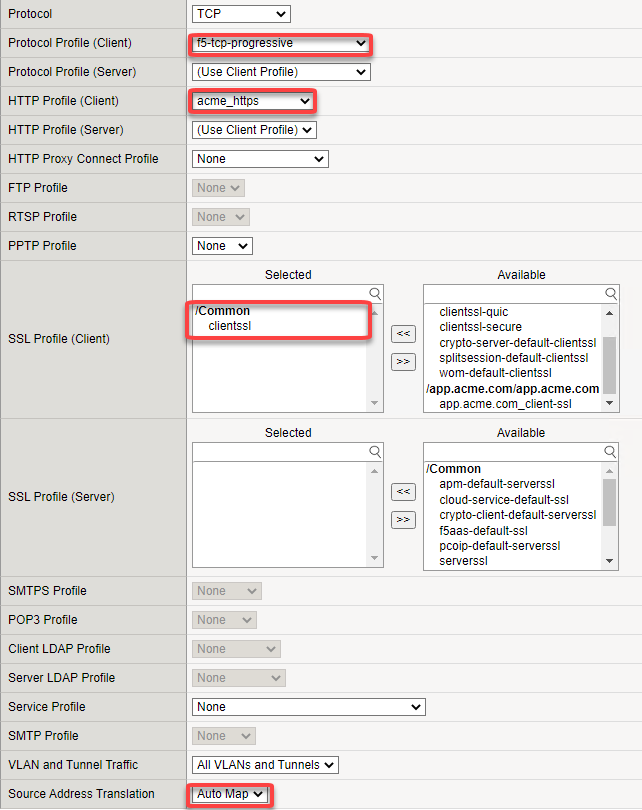
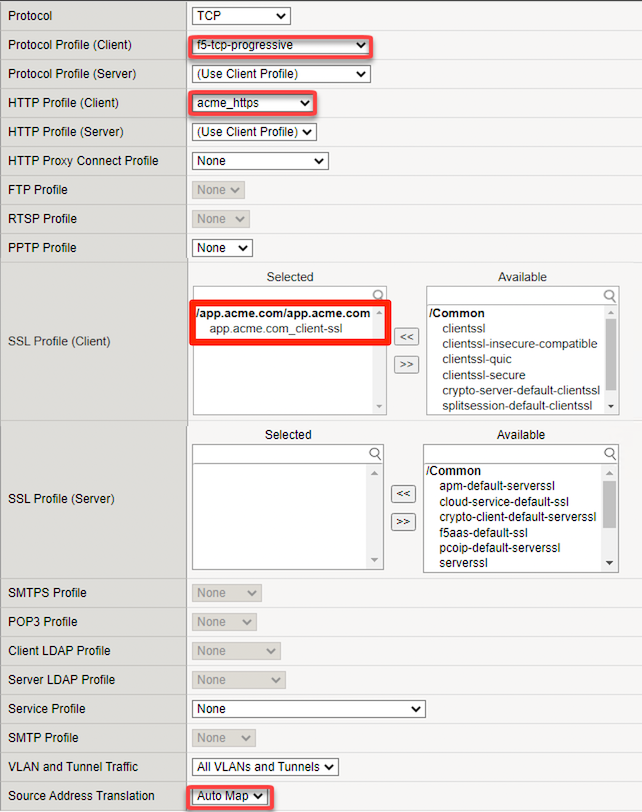
updates
minor updates to content and images for labs 1 and 2

diff --git a/docs/lab1/lab1.rst b/docs/lab1/lab1.rst
@@ -20,7 +20,7 @@ To access your dedicated student lab environment, you will need a web browser an
 
 #. Select your RDP resolution.
 
-#. The RDP client on your local host establishes a RDP connection to the Jump Host.
+#. The RDP client on your local host establishes an RDP connection to the Jump Host.
 
 #. Login with the following credentials:
 
@@ -43,7 +43,7 @@ To access your dedicated student lab environment, you will need a web browser an
     | Password:  | admin        |
     +------------+--------------+
 
-..Note::  You can take a look around at the BIG-IP.  At this time we do not have any application configuration.
+..Note::  You can take a look around at the BIG-IP.  At this time, we do not have any application configuration.
 
 Task 0: Postman
 ----------------------------
@@ -86,7 +86,7 @@ For this task we will run an API call to our BIG-IP, examine that the call was p
 
     |post|
 
-#. Now let's examine the JSON body where we plug in our configuration information for the collection we have identified. The body is in JSON format so we can identify the entity we want to configure.  In this case we have directed our call to **Node** and the two must have pieces of information to configure for a **Node** are the **name** and **dddress**.
+#. Now let's examine the JSON body where we plug in our configuration information for the collection we have identified. The body is in JSON format so we can identify the entity we want to configure.  In this case we have directed our call to **Node** and the two must have pieces of information to configure for a **Node** are the **name** and **address**.
 
     |json_node|
 
@@ -96,7 +96,7 @@ For this task we will run an API call to our BIG-IP, examine that the call was p
 
     |create_node|
 
-#. At the bottom of the Postman screen you will see the response from the BIG-IP.  We want to see a **200 OK** response to know that the BIG-IP accepted our call and processed our request.  Looking at the return boy we can see that our name and address were transmitted.
+#. At the bottom of the Postman screen, you will see the response from the BIG-IP.  We want to see a **200 OK** response to know that the BIG-IP accepted our call and processed our request.  Looking at the return boy we can see that our name and address were transmitted.
 
     |200_OK_node|
 
@@ -138,7 +138,7 @@ For this task we will run an API call to our BIG-IP, examine that the call was p
 
     |member|
 
-    .. Note:: Examine the order that we created the objects.  In imperative automation we have to know the exact order to create objects.  If we tried to create a pool but didn't have any pool members we would have an empty pool and have to **PATCH** the pool to add the a member.  If we tried to create a Virtual Server and attempted to attach a profile without creating the automation would fail.
+    .. Note:: Examine the order that we created the objects.  In imperative automation we have to know the exact order to create objects.  If we tried to create a pool but didn't have any pool members we would have an empty pool and have to **PATCH** the pool to add a member.  If we tried to create a Virtual Server and attempted to attach a profile without creating the automation would fail.
 
 #. Last step is to test that our Virtual Server works.  In Chrome you can go to https://app.acme.com or click on the **app.acme.com** bookmark.
 
@@ -152,7 +152,7 @@ In this section we are going to use the API to discover information about our co
 
     |1_2_read|
 
-#. You will notice that this is not a **POST** but a **GET**.  We are still talking tot he BIG-IP on the LTM module and requesting information on Virtual.  Click **Send**, verify the **200 OK** and then examine the body of the response.  We have gathered information on all the Virtual Servers installed on this BIG-IP.
+#. You will notice that this is not a **POST** but a **GET**.  We are still talking to the BIG-IP on the LTM module and requesting information on Virtual.  Click **Send**, verify the **200 OK** and then examine the body of the response.  We have gathered information on all the Virtual Servers installed on this BIG-IP.
 
     |list_vs|
 
@@ -168,35 +168,35 @@ In this section we are going to use the API to discover information about our co
 
 Task 1.3: Update
 -----------------------------
-So far we have learned how to **POST** configuration to our BIG-IP and how to **GET** information.  Sometimes you need to modify existing configuration.  Changing a TCP profile, modifying an SSL profile, adding nodes to pools or even changing the status of a pool member.
+So far we have learned how to **POST** configuration to our BIG-IP and how to **GET** information.  Sometimes you need to modify existing configuration; changing a TCP profile, modifying an SSL profile, adding nodes to pools or even changing the status of a pool member.
 
 #. From Postman expand on **1.3 - Update**.  Locate **1.3.1 - Patch** and expand that.  Click on **1.3.1.1 Update - LTM Virtual Server (443)** and let's examine the right pane.
 
     |1_3_update|
 
-#. We will be using the **PATCH** method to modify and/or change information on our target object.  In this case our target object is the **app.acme.com_vs_443** Virtual Server.  Click on **Body**.  We are looking for the name **app.acme.com_vs**.  We are looking in the profilesReference.  We want to keep **acme_https** so we list that profile, we are adding **f5-tcp-progressive** as a TCP profile and keeping the client ssl profile **app.acme.com_client-ssl**.  Click **Send**
+#. We will be using the **PATCH** method to modify and/or change information on our target object.  In this case our target object is the **app.acme.com_vs_443** Virtual Server.  Click on **Body**.  We are looking for the name **app.acme.com_vs**.  We are looking in the profilesReference.  We want to keep **acme_https** so we list that profile, we are adding **f5-tcp-progressive** as a TCP profile and keeping the client SSL profile **app.acme.com_client-ssl**.  Click **Send**
 
     |add_tcp|
 
 #. We receive a **200 OK**.
 
-#. Return to Chrome and our BIG-IP.  Navigate to **Local Traffic --> Virtual Server --> Virtual Server List** and locate **app.acme.com_vs_443** and click on it.  Scroll down and to see that **f5-tcp-progressive** is listed as the tcp profile.
+#. Return to Chrome and our BIG-IP.  Navigate to **Local Traffic --> Virtual Server --> Virtual Server List** and locate **app.acme.com_vs_443** and click on it.  Scroll down and to see that **f5-tcp-progressive** is listed as the TCP profile.
 
     |patch_tcp|
 
-    .. Note::  Bonus question - Instead of visiting the WebUI to discover information about the Virtual Server could we have used automation?  How?
+    .. Note::  Bonus question - Instead of visiting the WebUI to discover information about the Virtual Server, could we have used automation?  How?
 
-#. In Postman click on **1.3.1.2 Update - LTM HTTP Client SSL**.  Again we will use the **PATCH** method.  This time to the client ssl profile **app.acme.com_client_ssl**.  Click on **Body** to see that we will be adding a new Cipher String to the profile.  Click on **Send**.
+#. In Postman click on **1.3.1.2 Update - LTM HTTP Client SSL**.  Again, we will use the **PATCH** method.  This time to the client SSL profile **app.acme.com_client_ssl**.  Click on **Body** to see that we will be adding a new Cipher String to the profile.  Click on **Send**.
 
     |add_cipher|
 
 #. Verify **200 OK**
 
-#. Return to Chrome and the BIG-IP.  Navigate to **Local Traffic --> Profiles --> SSL --> Client**.  Locate the **app.acme.com_client-ssl** profile and click on it.  To see the cipher string you will need change **Configuration** to **Advanced** then scroll down to see the new **Ciphers**.
+#. Return to Chrome and the BIG-IP.  Navigate to **Local Traffic --> Profiles --> SSL --> Client**.  Locate the **app.acme.com_client-ssl** profile and click on it.  To see the cipher string, you will need change **Configuration** to **Advanced** then scroll down to see the new **Ciphers**.
 
     |patch_ssl|
 
-#. In Postman expand **1.3.2 - Add** and Click on **1.3.2.1 Create - LTM Second Node**.  We are going to use the **POST** method to add another node.  Click **Send**.
+#. In Postman expand **1.3.2 - Add** and click on **1.3.2.1 Create - LTM Second Node**.  We are going to use the **POST** method to add another node.  Click **Send**.
 
     |add_node2|
 
@@ -234,11 +234,11 @@ So far we have learned how to **POST** configuration to our BIG-IP and how to **
 
     |node_up|
 
-.. Note::  Instead of returning to the BIG-IP could we have used Postman to return information on our configuration?
+.. Note::  Instead of returning to the BIG-IP, could we have used Postman to return information on our configuration?
 
 Task 1.4: Delete
 -----------------------------
-So far we have learned how to create, list and modify configuration on our BIG-IP through imperative automation.  Now let's examine how to delete configuration from our BIG-IP.
+So far we have learned how to create, list, and modify configuration on our BIG-IP through imperative automation.  Now let's examine how to delete configuration from our BIG-IP.
 
 #. In Postman, Expand **1.4 - Delete** and click on **1.4.1 Delete - LTM Virtual Server (80)**
 

diff --git a/docs/lab2/lab2.rst b/docs/lab2/lab2.rst
@@ -8,7 +8,7 @@ The intention of this lab will be to show how to work with declarative API calls
 
 Task 2.1: Create
 -----------------------------
-In this task we are going to use AS3 JSON declaration to create two Virtual Servers (port 80 and 443), http profile, client ssl profile, persistence profile, node and pool all in one API call to our BIG-IP.
+In this task we are going to use an AS3 JSON declaration to create two Virtual Servers (port 80 and 443), http profile, client ssl profile, persistence profile, node and pool all in one API call to our BIG-IP.
 
 #. In Chrome make sure you are logged in to your BIG-IP
 
@@ -18,11 +18,11 @@ In this task we are going to use AS3 JSON declaration to create two Virtual Serv
     | Password:  | admin        |
     +------------+--------------+
 
-#. In Postman, expand **Lab 2 - Decalarative Automation with AS3**, **2.1 - Create** and click on **2.1.1 Deploy - app.acme.com**
+#. In Postman, expand **Lab 2 - Declarative Automation with AS3**, **2.1 - Create** and click on **2.1.1 Deploy - app.acme.com**
 
     |2_1_deploy|
 
-#. Examine the API call in the right pane.  We will use a POST method but instead of sending our calls to a specific collection we are sending it to the declarative interface at //mgmt//shared//appsvcs//declare. Click on the **Body** and let's take a deeper look at the JSON declaration.
+#. Examine the API call in the right pane.  We will use a POST method but instead of sending our calls to a specific collection we are sending it to the declarative interface at /mgmt/shared/appsvcs/declare. Click on the **Body** and let's take a deeper look at the JSON declaration.
 
     |deploy_app|
 
@@ -56,7 +56,7 @@ In this task we are going to use AS3 JSON declaration to create two Virtual Serv
     | Certificate Class    | |ssl_cert|   |
     +----------------------+--------------+
 
-#. We have verified we have a complete declaration.  Click on **Send** in Postman to send the complete declaration to BIG-IP.  We should receive a 200 OK an in the body of the response we should see results = success.
+#. We have verified we have a complete declaration.  Click on **Send** in Postman to send the complete declaration to BIG-IP.  We should receive a 200 OK and in the body of the response we should see results = success.
 
     |app_success|
 
@@ -74,7 +74,7 @@ In this task we are going to use AS3 JSON declaration to create two Virtual Serv
     | |app_http|   | |redirect|   |
     +--------------+--------------+
 
-#. Navigate back to **Local Traffic --> Virtual Servers --> Virtual Server List**.  Click on **serviceMain**.  Under properties we can see configuration was successful again with an IP Address and port.  Scroll down to configuration and we can see that the **acme_https** http profile is attached as will as the **clientssl** client-ssl profile.  We have also enabled SNAT Automap.
+#. Navigate back to **Local Traffic --> Virtual Servers --> Virtual Server List**.  Click on **serviceMain**.  Under properties we can see configuration was successful again with an IP Address and port.  Scroll down to configuration and we can see that the **acme_https** http profile is attached as well as the **app.acme.com_client-ssl** client-ssl profile.  We have also enabled SNAT Automap.
 
     +--------------+--------------+
     | |app_https|  | |app_conf|   |
@@ -84,7 +84,7 @@ In this task we are going to use AS3 JSON declaration to create two Virtual Serv
 
     |app_resource|
 
-#. Open a new tab in Chrome and use the bookmark for **app.acme.com** or enter http://app.acme.com in the browser address. You should reach the applicaiton.
+#. Open a new tab in Chrome and use the bookmark for **app.acme.com** or enter http://app.acme.com in the browser address. You should reach the application.
 
     |acme_app|
 
@@ -194,7 +194,7 @@ In this section we are going to make one API call to gather all the information 
 
 Task 2.3: Update
 -----------------------------
-We have created an application and been able to gather information about the configuration through the API.  Now let's update the configuration
+We have created an application and have been able to gather information about the configuration through the API.  Now let's update the configuration.
 
 #. In Postman expand **2.3 - Update** and click on **2.3.1 Update - app.acme.com**.
 
@@ -216,7 +216,7 @@ We have created an application and been able to gather information about the con
 
     |vs_tcp|
 
-#. Navigate to **Local Traffic --> Pools --> Pool List** and click on web_pool.  Click on **Members**.  We now have two pool members but one is administratively down.
+#. Navigate to **Local Traffic --> Pools --> Pool List** and click on web_pool.  Click on **Members**.  We now have two pool members, but one is administratively down.
 
     |node_down|
 
@@ -241,7 +241,7 @@ We have examined how to create, read and update.  Now it is time to clean up the
 
     |2_4_del|
 
-#. Return to Chrome and the BiG-IP.  Navigate to **Local Traffic --> Virtual Servers --> Virtual Server List**.  In the upper right corner try to change the partition back to **app.acme.com**.  It doesn't exist.
+#. Return to Chrome and the BIG-IP.  Navigate to **Local Traffic --> Virtual Servers --> Virtual Server List**.  In the upper right corner try to change the partition back to **app.acme.com**.  It doesn't exist.
 
 #. Navigate to **Local Traffic --> Pools ---> Pool List**.  Try to change the partition.
 
